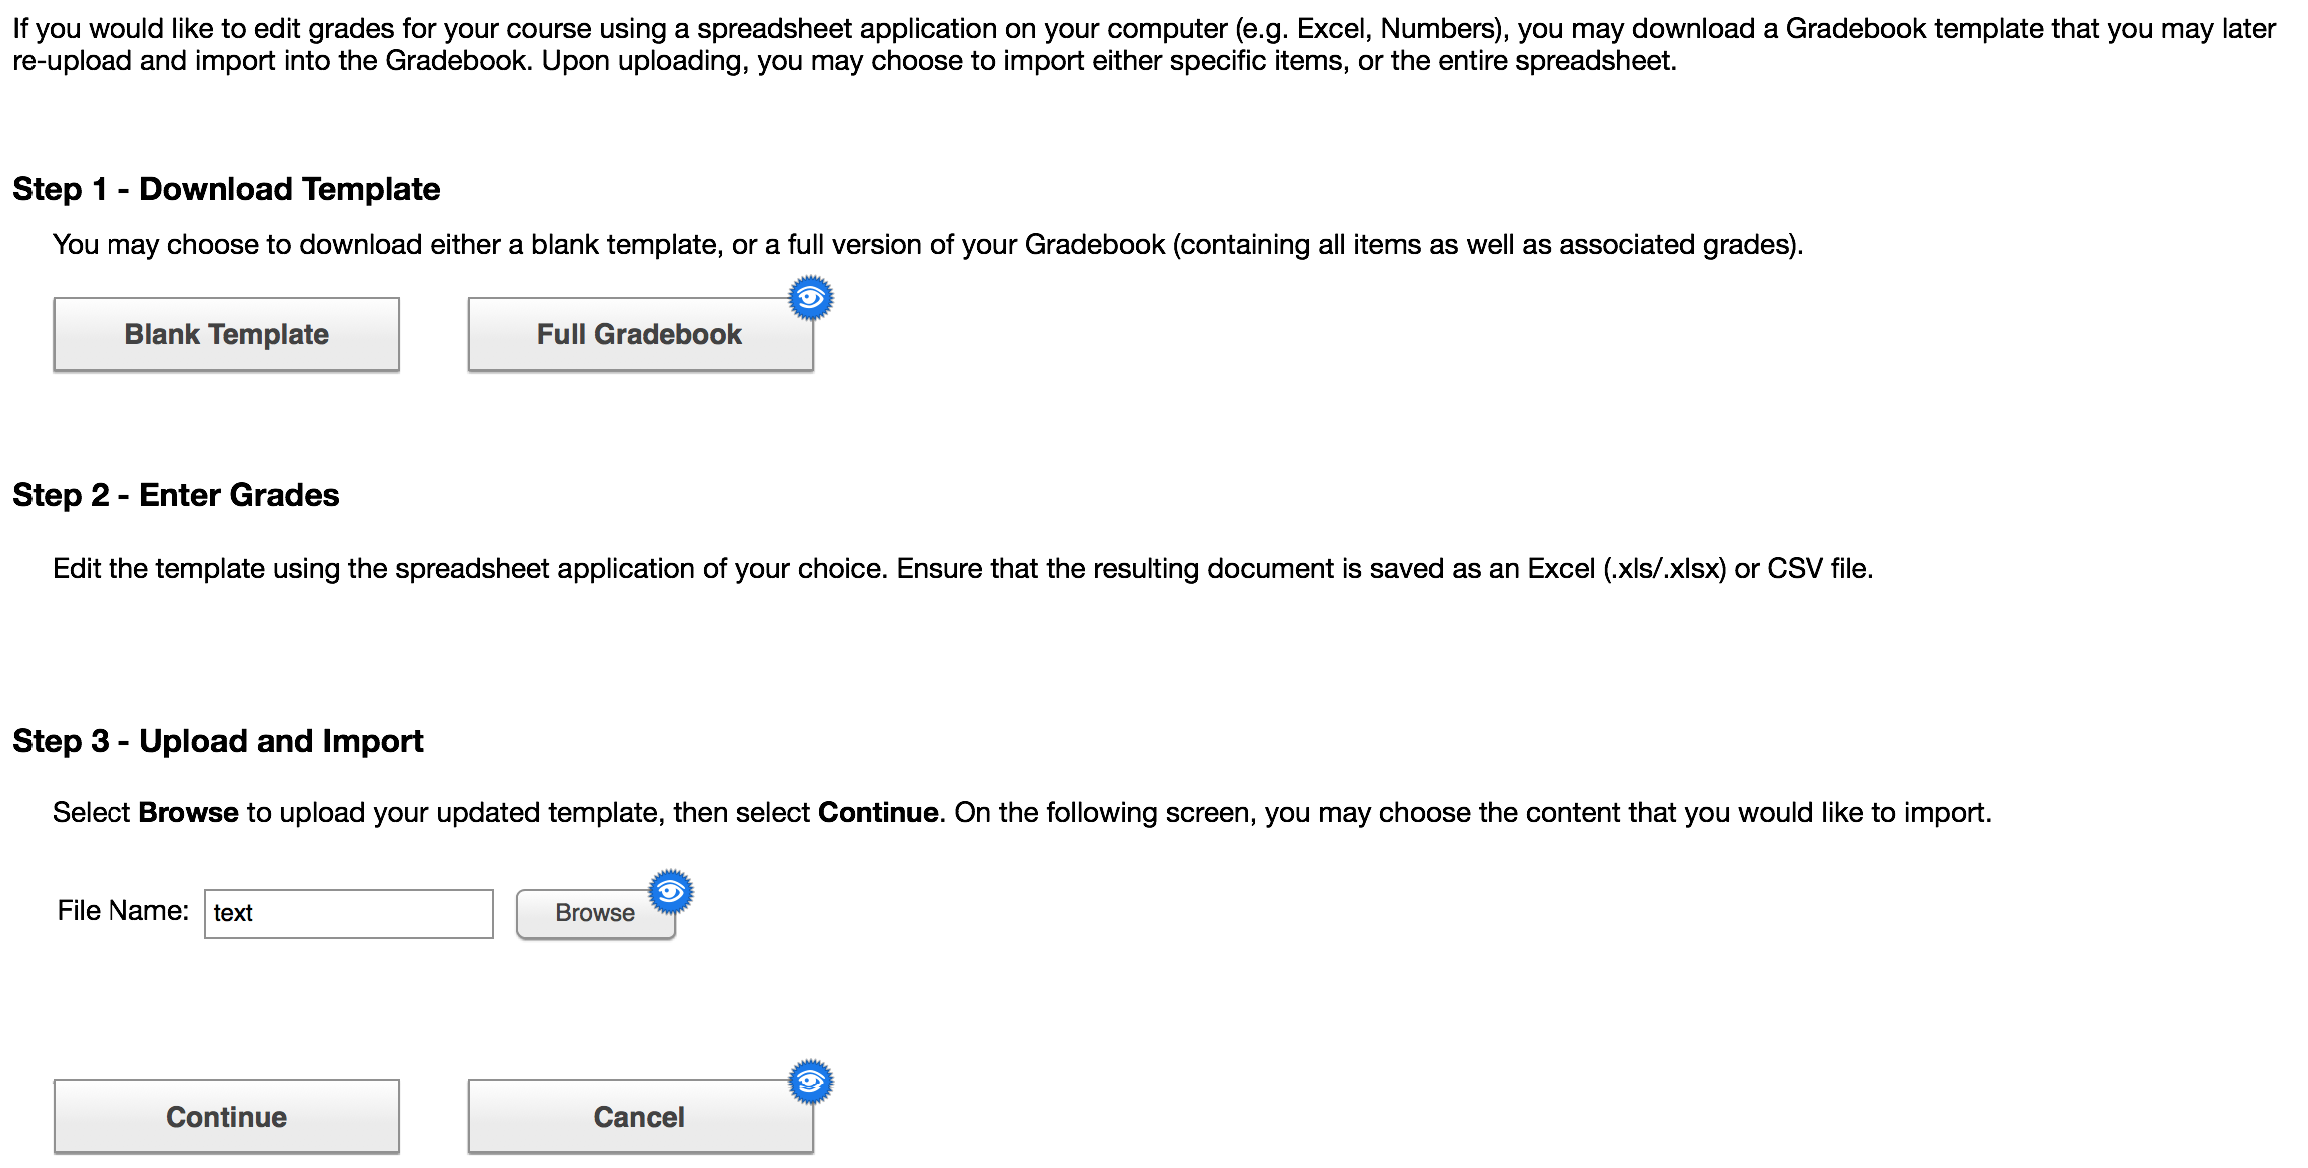
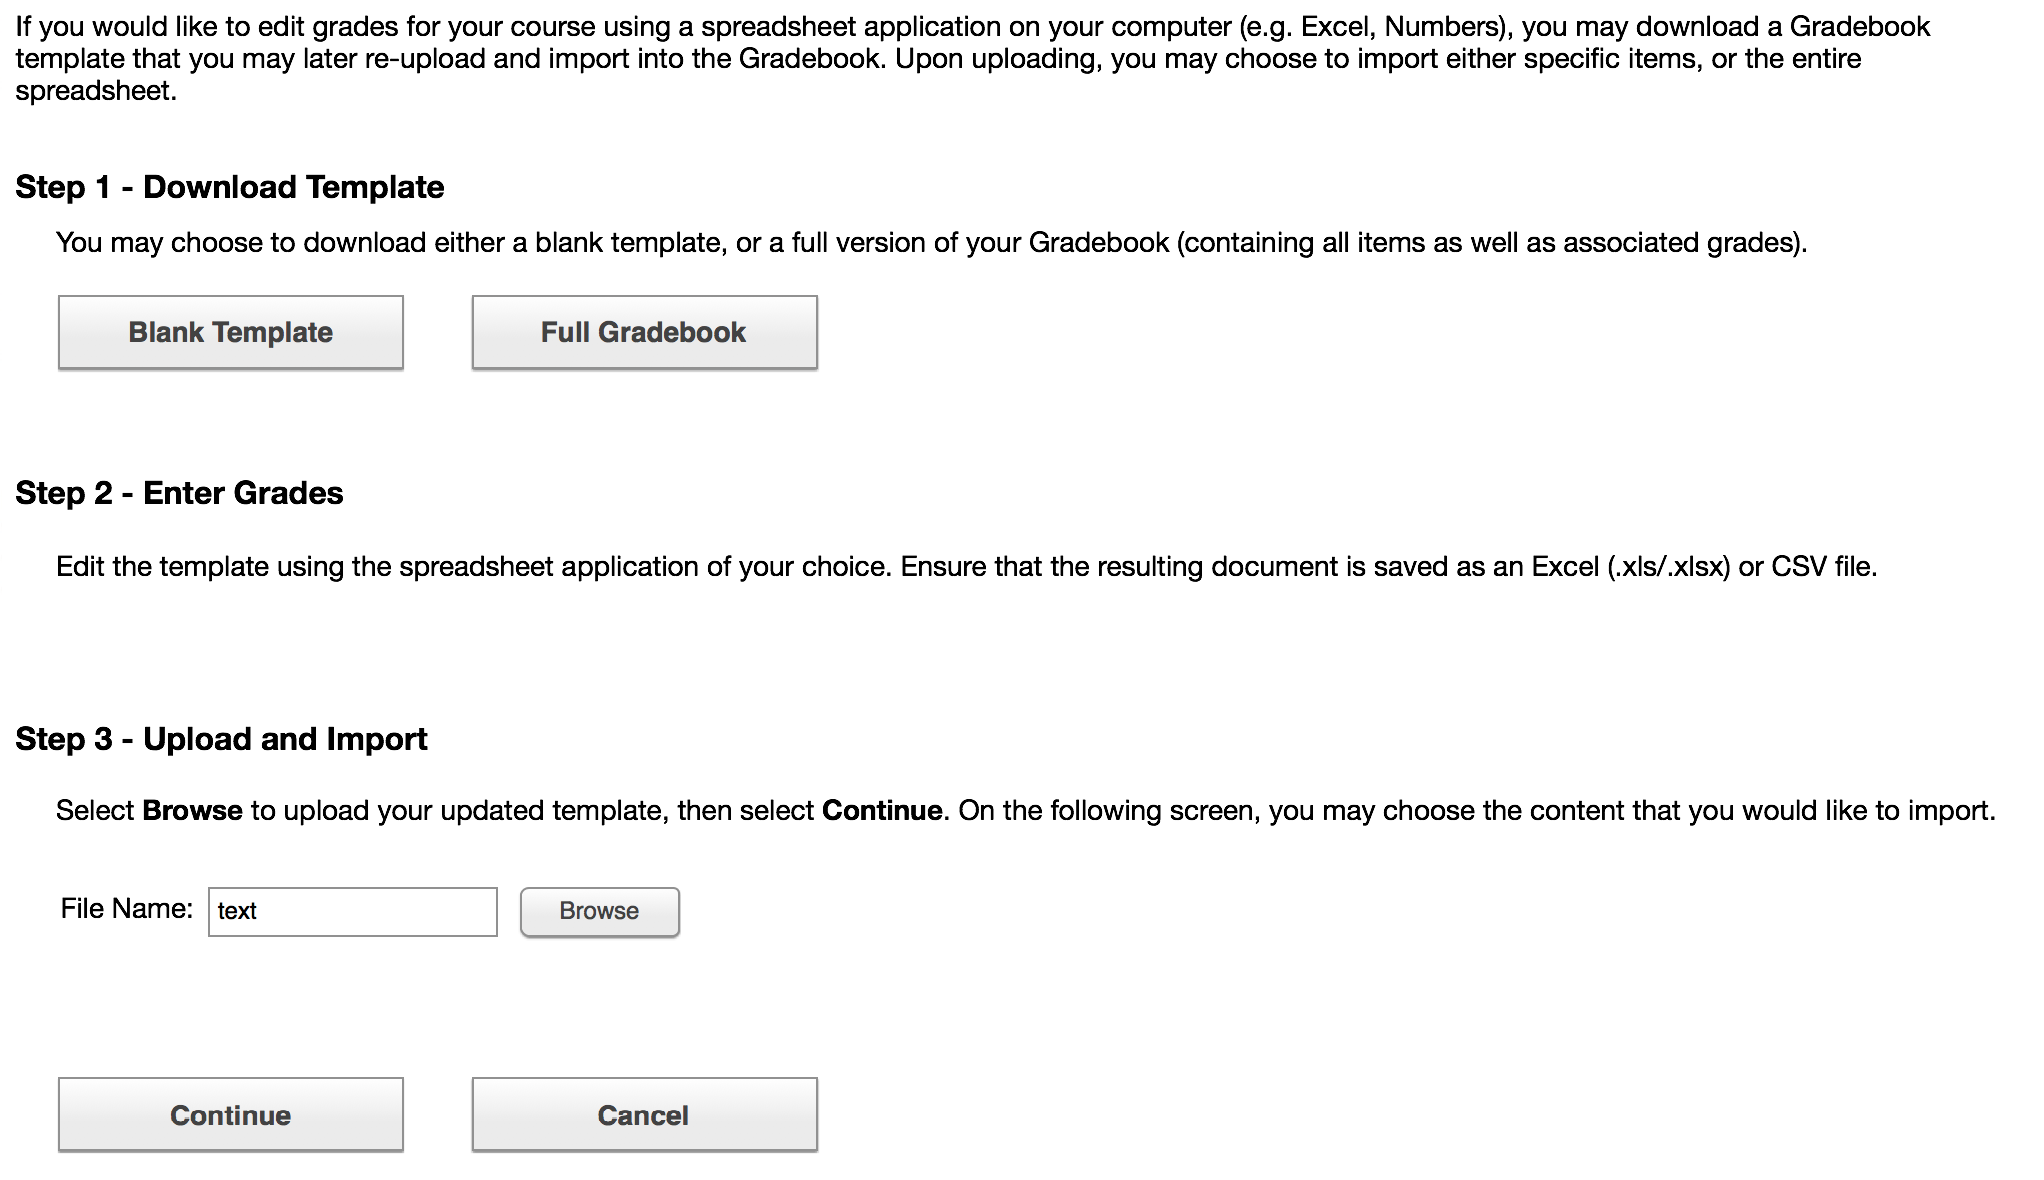
Update the import screenshot so it doesn't include the action labels from graffle

diff --git a/import.html b/import.html
@@ -16,7 +16,7 @@
     <li><span><a href="permissions.html">Permissions</a></span></li>
   </ul>
   <br/><br/>
-  <img src="import-first-page.png" width="1000px" />
+  <img src="import-first-page.png" width="940px" />
 </div>
 </body>
 </html>
